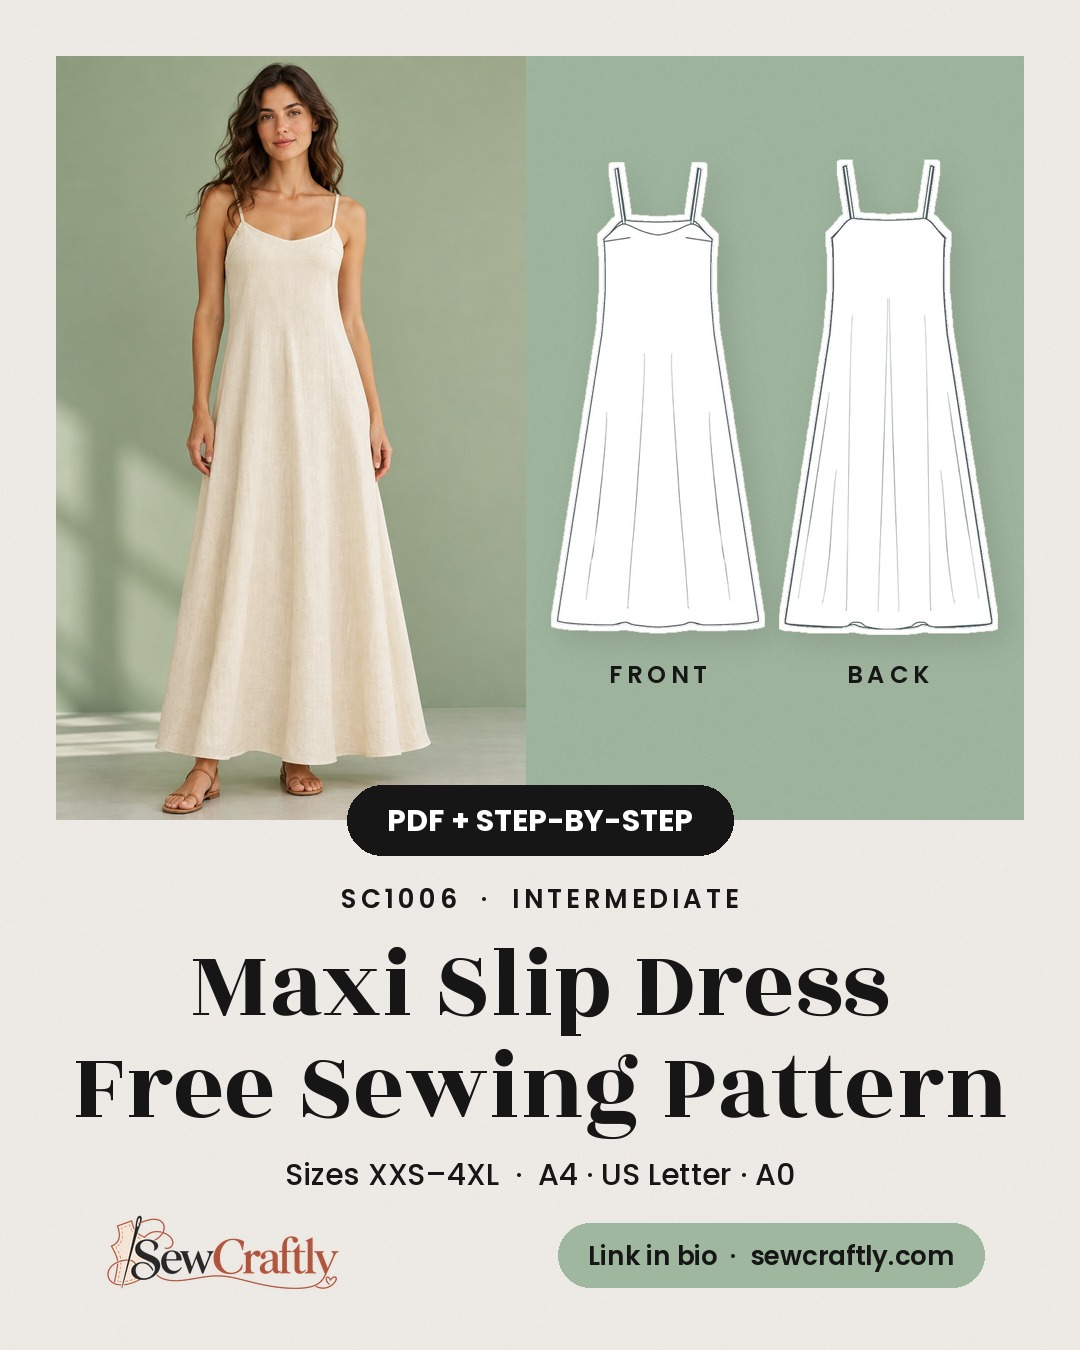
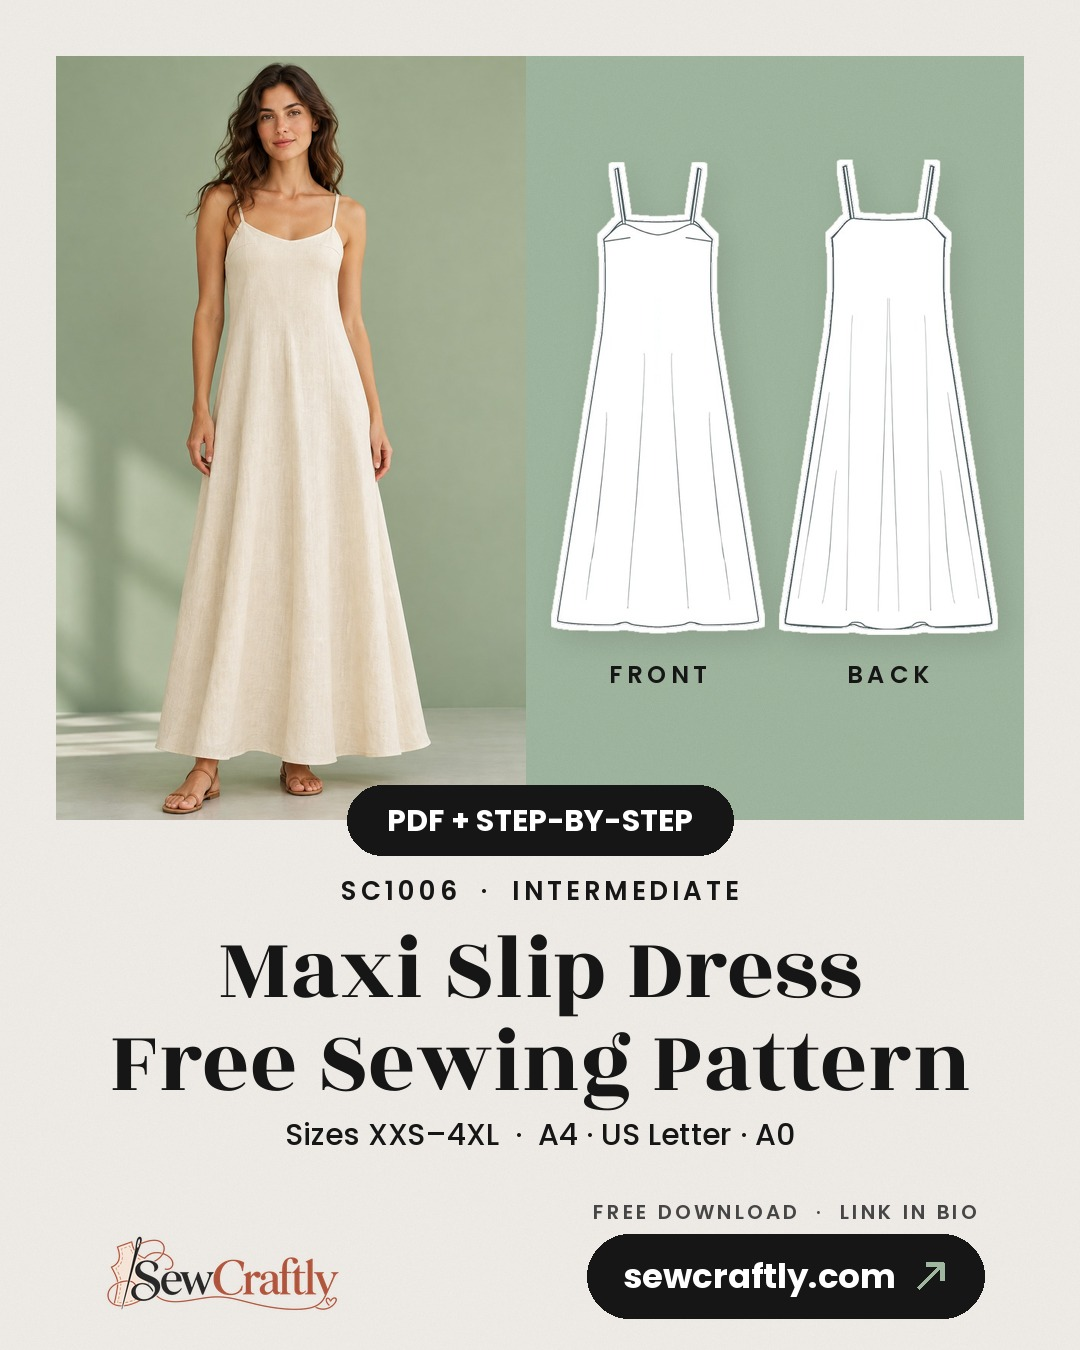
Social post: clearer sewcraftly.com call-to-action
Claude-Session: https://claude.ai/code/session_01GKt2ymHtUEYpXr1MYkju7D

Changed region(s): [[0.0611, 0.6533, 0.9472, 0.9956]]

diff --git a/tools/social/gen.py b/tools/social/gen.py
@@ -127,21 +127,28 @@ def style_split():
 
     # ---- title block ----
     meta = f"{A.code}" + (f"  ·  {A.level.upper()}" if A.level else '')
-    ctext(d, 880, meta, POP('SemiBold', 26), spacing=4)
+    ctext(d, 872, meta, POP('SemiBold', 26), spacing=4)
     lines = [A.keyword, A.line2] if A.keyword else split_title(d, A.name, ROZHA, 940)
-    tf = autosize(d, lines, ROZHA, 940, 104 if len(lines) == 2 else 110)
-    y = 915
+    tf = autosize(d, lines, ROZHA, 880, 100 if len(lines) == 2 else 110)
+    y = 905
     for ln in lines:
         ctext(d, y, ln, tf); y += int(tf.size * 1.02)
-    ctext(d, y + 34, f"Sizes {A.sizes}  ·  A4 · US Letter · A0", POP('Medium', 30))
+    ctext(d, y + 22, f"Sizes {A.sizes}  ·  A4 · US Letter · A0", POP('Medium', 30))
 
     # ---- footer: logo + link in bio ----
-    fy = 1215
+    fy = 1228
     lw = 250; lh = int(LOGO.height * lw / LOGO.width)
-    im.alpha_composite(LOGO.resize((lw, lh), Image.LANCZOS), (96, fy + (80 - lh) // 2))
-    lf = POP('SemiBold', 26); t = 'Link in bio  ·  sewcraftly.com'; tw = d.textlength(t, font=lf)
-    d.rounded_rectangle((W - 96 - tw - 60, fy + 8, W - 96, fy + 72), radius=32, fill=BAND)
-    d.text((W - 96 - tw - 30, fy + 8 + (64 - lf.size * 1.42) / 2), t, font=lf, fill=K)
+    im.alpha_composite(LOGO.resize((lw, lh), Image.LANCZOS), (96, fy + 6 + (84 - lh) // 2))
+    # CTA: small "FREE DOWNLOAD · LINK IN BIO" over a black pill with sewcraftly.com and an arrow
+    lf = POP('Bold', 34); t = 'sewcraftly.com'; tw = d.textlength(t, font=lf)
+    ph_, aw_ = 84, 30; px1 = W - 96; px0 = px1 - (tw + aw_ + 22 + 72)
+    py0 = fy + 6
+    d.rounded_rectangle((px0, py0, px1, py0 + ph_), radius=ph_ // 2, fill=K)
+    tx = px0 + 36; d.text((tx, py0 + (ph_ - lf.size * 1.42) / 2), t, font=lf, fill='white')
+    ax = tx + tw + 22; ay = py0 + ph_ // 2  # arrow pointing up-right
+    d.line((ax, ay + 12, ax + 24, ay - 12), fill=BAND, width=5)
+    d.line((ax + 8, ay - 12, ax + 25, ay - 12), fill=BAND, width=5); d.line((ax + 24, ay - 13, ax + 24, ay + 4), fill=BAND, width=5)
+    ctext(d, fy - 30, 'FREE DOWNLOAD  ·  LINK IN BIO', POP('SemiBold', 20), cx=(px0 + px1) // 2, spacing=3, fill=(70, 70, 70))
 
     return im
 
